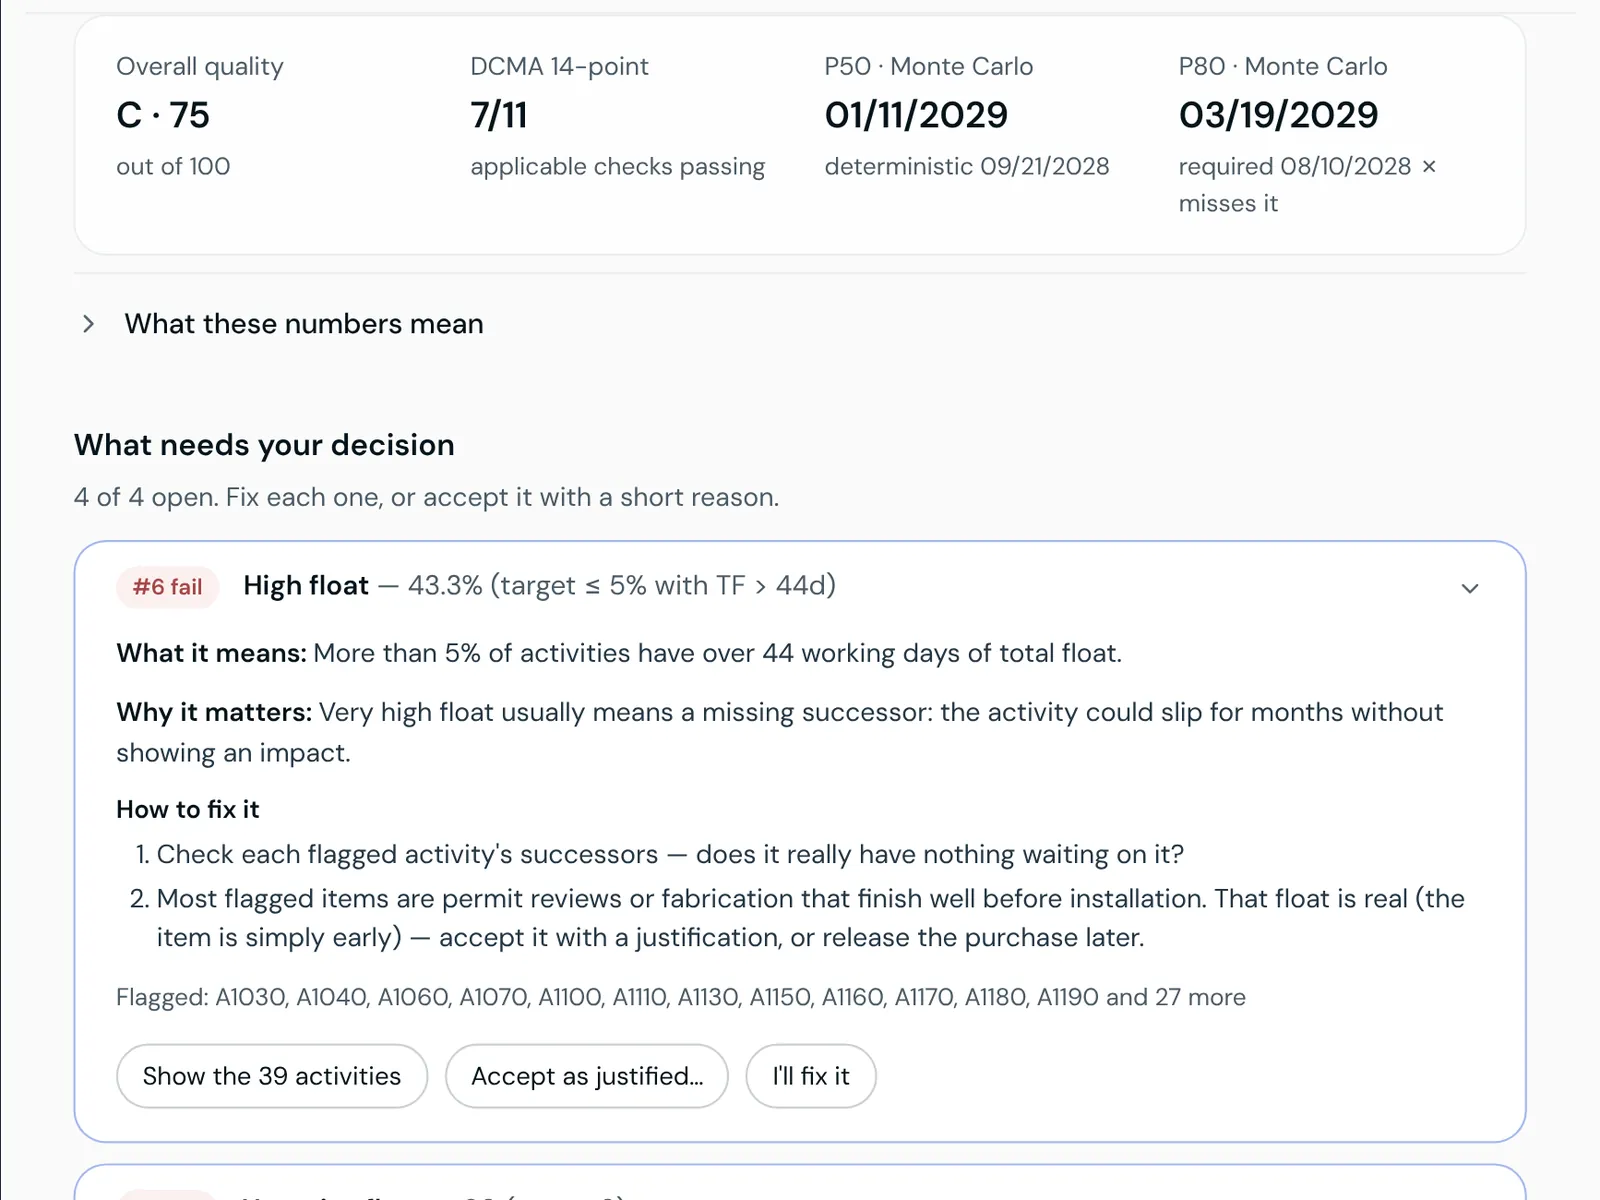
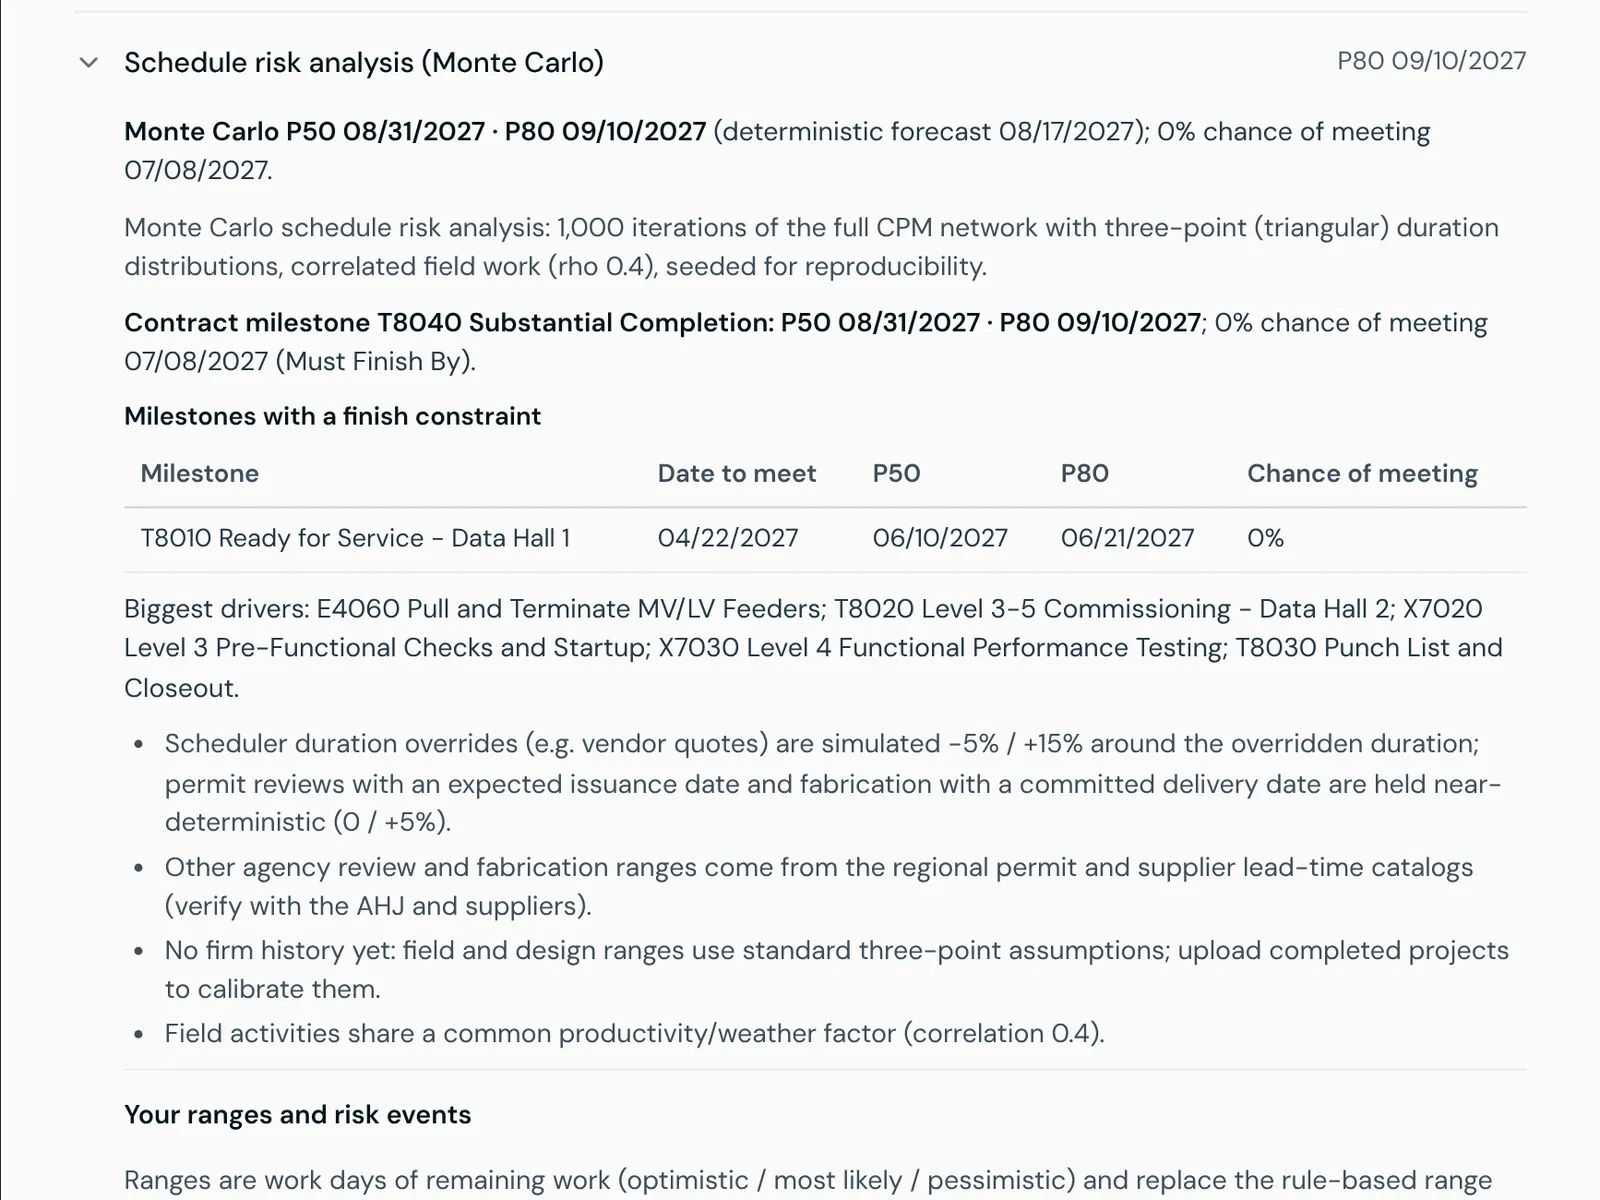
Landing page: one sample project in every picture, clearer proof, sample report up front
From the latest independent review (7.63 of 10, tied with Procore):

- Forecast now shows the Monte Carlo result for the sample data center, so its
  dates agree with the rest of the page; it showed another sample project
- The Quality picture ends before a row that the frame used to cut off
- The interview picture is labelled as the other sample project it comes from
- "3 briefs", a feature, becomes "2,300+ automated tests run on every change"
- The first screen offers "read a sample report" as a low-commitment next step,
  and the sample report page has a "See plans" button

Claude-Session: https://claude.ai/code/session_012jBERRm6i7LpbcKwP1m2yW

diff --git a/src/components/Landing.tsx b/src/components/Landing.tsx
@@ -97,6 +97,7 @@ export default function Landing({ inviteOnly, accessRequestEmail }: { inviteOnly
             <Cta href={primaryHref} className={`${primaryBtn} px-7 py-3.5 text-[16px]`}>{primaryLabel}</Cta>
             <a href="#today" className={`${secondaryBtn} px-7 py-3.5 text-[16px]`}>See the Daily Brief</a>
           </div>
+          <p className="hero-rise [animation-delay:260ms] text-[15px] text-warm-700 mt-4">Or judge the output first: <Link href="/sample-report" className="font-semibold text-accent-700 underline underline-offset-4">read a sample report</Link>.</p>
         </div>
         <div className="relative hero-rise [animation-delay:320ms] max-w-[1100px] mx-auto mt-9 md:mt-10">
           <Shot eager height={830} name="overview" label="RunF9 · Overview" alt="The Overview page in RunF9 for a sample 60 MW data center: the finish is forecast 40 days after the required date, the project is 81% complete, 14 activities are critical and 10 of 14 quality checks pass." />
@@ -110,7 +111,7 @@ export default function Landing({ inviteOnly, accessRequestEmail }: { inviteOnly
             [<>14 of 14</>, 'DCMA 14-Point checks built in and run on every schedule'],
             [<CountUp key="n" value={100000} />, 'activities scheduled by our CPM engine in automated tests'],
             [<>0 days</>, 'of drift after a P6 or MS Project round trip, in our test set'],
-            inviteOnly ? [<>3 briefs</>, 'every morning: project manager, field and client'] : [<>$0</>, 'to start. No credit card'],
+            inviteOnly ? [<>2,300+</>, 'automated tests run on every change to RunF9'] : [<>$0</>, 'to start. No credit card'],
           ].map(([value, label], i) => (
             <Reveal key={String(label)} delay={i * 90}>
               <div className="text-[32px] min-[360px]:text-[40px] md:text-[48px] font-semibold tracking-[-0.04em] text-navy-950 tabular-nums leading-none">{value}</div>
@@ -241,7 +242,7 @@ export default function Landing({ inviteOnly, accessRequestEmail }: { inviteOnly
             ['100,000 activities', 'An automated performance test schedules synthetic networks of 10,000, 50,000 and 100,000 activities, with mixed relationship types, lags and two calendars, on every code change. It measures the CPM calculation, not file upload.'],
             ['0 days after a round trip', 'Five test schedules (different calendars, delivery methods and a required finish) are exported to P6 XER and MS Project XML, imported back and re-scheduled from scratch. Every activity’s early start, early finish and total float must match exactly. This proves RunF9’s files keep the logic intact; a side-by-side comparison with P6 and MS Project calculating the same reference projects is planned and will be published here.'],
             inviteOnly
-              ? ['3 briefs every morning', 'The Daily Brief is written three ways from the same calculation: for the project manager, for the field and for the client. The client version leaves out internal risk wording. An automated test checks all three on every code change.']
+              ? ['2,300+ automated tests', 'RunF9 has more than 2,300 automated tests, covering the scheduling engine, the checks, the file formats, security and tenant separation. They all run on every code change, together with end-to-end suites against a live server, and a change that fails any of them is not released.']
               : ['$0 to start', 'The Free plan has no time limit and asks for no payment details. Plan limits are listed in the pricing table and enforced by the server.'],
           ].map(([term, def], i) => (
             <details key={term} open={i === 0} className="group border-b border-warm-200">

diff --git a/src/components/landing/Pillars.tsx b/src/components/landing/Pillars.tsx
@@ -7,13 +7,13 @@ import { Shot } from './Sections'
 const PILLARS = [
   { key: 'build', title: 'Build.', lead: 'A baseline from a conversation.', text: 'RunF9 interviews you like a senior scheduler (scope, permits, long-lead equipment, site and calendar) and builds a CPM schedule with a written basis for every duration and link.',
     points: ['Questions are ranked by how far each answer can move your finish date.', 'Or upload a P6, MS Project, Excel or PDF schedule you already have.'],
-    shot: 'interview', label: 'RunF9 · Interview', alt: 'The interview in RunF9 for a sample project: answered questions such as the state, drawing completeness, delivery method, work week and the daily cost of late completion.' },
+    shot: 'interview', label: 'RunF9 · Interview · sample medical office', alt: 'The interview in RunF9 for a sample project: answered questions such as the state, drawing completeness, delivery method, work week and the daily cost of late completion.' },
   { key: 'check', title: 'Check.', lead: 'All 14 DCMA checks, every time.', text: 'Upload a P6 or MS Project file. Each failing check lists the activities involved and a suggested fix, with the published thresholds or your organization’s own.',
     points: ['Critical path and float from forward and backward CPM passes, with calendars, lags and constraints.', 'Checks that need data the file does not have are reported as not applicable, never as passed.'],
-    shot: 'quality', label: 'RunF9 · Quality', alt: 'The Quality page in RunF9 for the sample data center: the failing DCMA checks listed first (negative float, missed tasks, CPLI), with the activities behind each one.' },
+    shot: 'quality', height: 701, label: 'RunF9 · Quality', alt: 'The Quality page in RunF9 for the sample data center: the failing DCMA checks listed first (negative float, missed tasks, CPLI), with the activities behind each one.' },
   { key: 'forecast', title: 'Forecast.', lead: 'Know the finish before it moves.', text: 'Monte Carlo risk analysis over the full network gives P50 and P80 finish dates. When a date slips, recovery options are re-scheduled and priced from your labor cost.',
     points: ['Every open change and reported delay is run against the real network as a what-if.', 'What-ifs change nothing in the schedule until a person approves an edit.'],
-    shot: 'risk', label: 'RunF9 · Evaluation', alt: 'The Evaluation page in RunF9 for a sample project: Monte Carlo P50 and P80 finish dates beside the quality score and DCMA result, and the first finding that needs a decision.' },
+    shot: 'risk', label: 'RunF9 · Schedule risk analysis', alt: 'Schedule risk analysis in RunF9 for the sample data center: Monte Carlo P50 08/31/2027 and P80 09/10/2027 against a deterministic forecast of 08/17/2027, with the chance of meeting each constrained milestone and the biggest drivers.' },
 ]
 
 export default function Pillars() {
@@ -33,7 +33,7 @@ export default function Pillars() {
               ))}
             </ul>
           </div>
-          <Shot name={p.shot} alt={p.alt} label={p.label} className={i % 2 === 1 ? 'lg:order-1' : ''} />
+          <Shot name={p.shot} height={'height' in p ? p.height : 1200} alt={p.alt} label={p.label} className={i % 2 === 1 ? 'lg:order-1' : ''} />
         </Reveal>
       ))}
     </div>

diff --git a/src/app/sample-report/page.tsx b/src/app/sample-report/page.tsx
@@ -15,7 +15,10 @@ export default function SampleReportPage() {
     <div className="min-h-screen bg-warm-50">
       <nav className="h-16 flex items-center justify-between px-6 border-b border-warm-200 bg-white/80 backdrop-blur-xl">
         <Link href="/" aria-label="RunF9 home"><Logo variant="dark" size="text-[22px]" /></Link>
-        <Link href="/" className="text-[14px] font-medium text-accent-700 hover:underline">Back to RunF9</Link>
+        <div className="flex items-center gap-4">
+          <Link href="/" className="hidden sm:inline text-[14px] font-medium text-warm-700 hover:text-navy-950">Back to RunF9</Link>
+          <Link href="/#pricing" className="pressable inline-flex items-center justify-center rounded-full bg-accent-600 px-4 py-2 text-[14px] font-semibold text-white hover:bg-accent-700">See plans</Link>
+        </div>
       </nav>
       <main className="max-w-[920px] mx-auto px-6 py-10 md:py-14">
         <p className="text-[13px] font-semibold uppercase tracking-[0.14em] text-accent-700">Sample report</p>

diff --git a/docs/marketing/CLAIMS-REGISTER.md b/docs/marketing/CLAIMS-REGISTER.md
@@ -46,6 +46,8 @@ Every public claim about RunF9 (website, sales decks, proposals) must be listed 
 | `/sample-report`: "the Executive Schedule Summary RunF9 produced for the sample data center project … written with AI switched off … shown exactly as generated" (11/13/2026) | ✅ | `src/lib/marketing/sample-report.ts` holds the `content` returned by `POST /api/reports` (`executive_summary`) for the built-in sample data center on a local server with AI off, byte for byte. The server ran the code of release 6866598 (the report code is unchanged since), so the report names that release. The page says the project is a sample, not a customer's. Regenerate when the report format changes |
 | "No customer logos yet. Check the work instead." cards (11/13/2026): a real report; every number on the page tied to an automated test; "founded by a construction scheduling consultant with 13 years in the field. You talk to the person who built it" | ✅ / 👤 | Report: row above. Numbers: the figures band rows at the top of this table. Founder line: the same wording the footer has carried since 10/05/2026, still awaiting the founder's confirmation of the years (see the founder row); "you talk to the person who built it" matches "Support by email from the founder" |
 | The Daily Brief panel on the landing page: "the brief RunF9 computed for its sample data center project on 11/13/2026, word for word. No AI model wrote it" (11/13/2026; replaces the Today screenshots there) | ✅ | `src/lib/marketing/sample-brief.ts` holds fields of the response of `GET /api/schedules/:id/brief` for the built-in sample data center on release 6866598 with AI off: the headline, the alerts, the three audience versions, the correspondence signals and the what-ifs. Sentences are unedited; dates are formatted MM/DD/YYYY; the project manager tab omits its first line because the headline above shows the same sentence. `daily-brief.ts` makes no model call. Regenerate when the brief's wording changes |
+| "2,300+ automated tests run on every change to RunF9" (figures band, private beta mode, 11/13/2026; replaces "3 briefs", which described a feature) | ✅ | `npm test` reported 2,350 passing tests on 11/13/2026; `.github/workflows/ci.yml` runs them, and the end-to-end suites, on every pull request, and the shipping rule in CLAUDE.md forbids merging a red one. Re-count before the figure is next quoted; lower it if the count ever falls below 2,300 |
+| Forecast picture: Monte Carlo P50 08/31/2027 and P80 09/10/2027 for the sample data center (11/13/2026; replaces a picture from the other sample project, whose dates disagreed with the rest of the page) | ✅ | Unedited capture of "Schedule risk analysis (Monte Carlo)" on the Overview page after pressing "Run risk analysis" for the built-in sample data center; the run is seeded, so it reproduces |
 | "Native P6 and MS Project files: import .xer and .xml with activities, logic, lags, constraints and calendars, and export the same formats" | ✅ | `src/lib/parsers/xer-parser.ts`, `xml-parser.ts`, `src/lib/export/xer.ts`, `msp-xml.ts`; tests in `xer-parser.test.ts`, `xml-parser.test.ts`, `formats.test.ts`, `export.test.ts`, `roundtrip.test.ts` |
 | "Questions are ranked by how far each answer can move your finish date" | ✅ | `src/lib/planning/adaptive.ts` re-schedules under each plausible answer; `adaptive.test.ts` |
 | "Each failing check lists the activities involved and a suggested fix" | ✅ | `DcmaCheck.offenders`; `src/lib/analysis/dcma-guidance.ts` |
